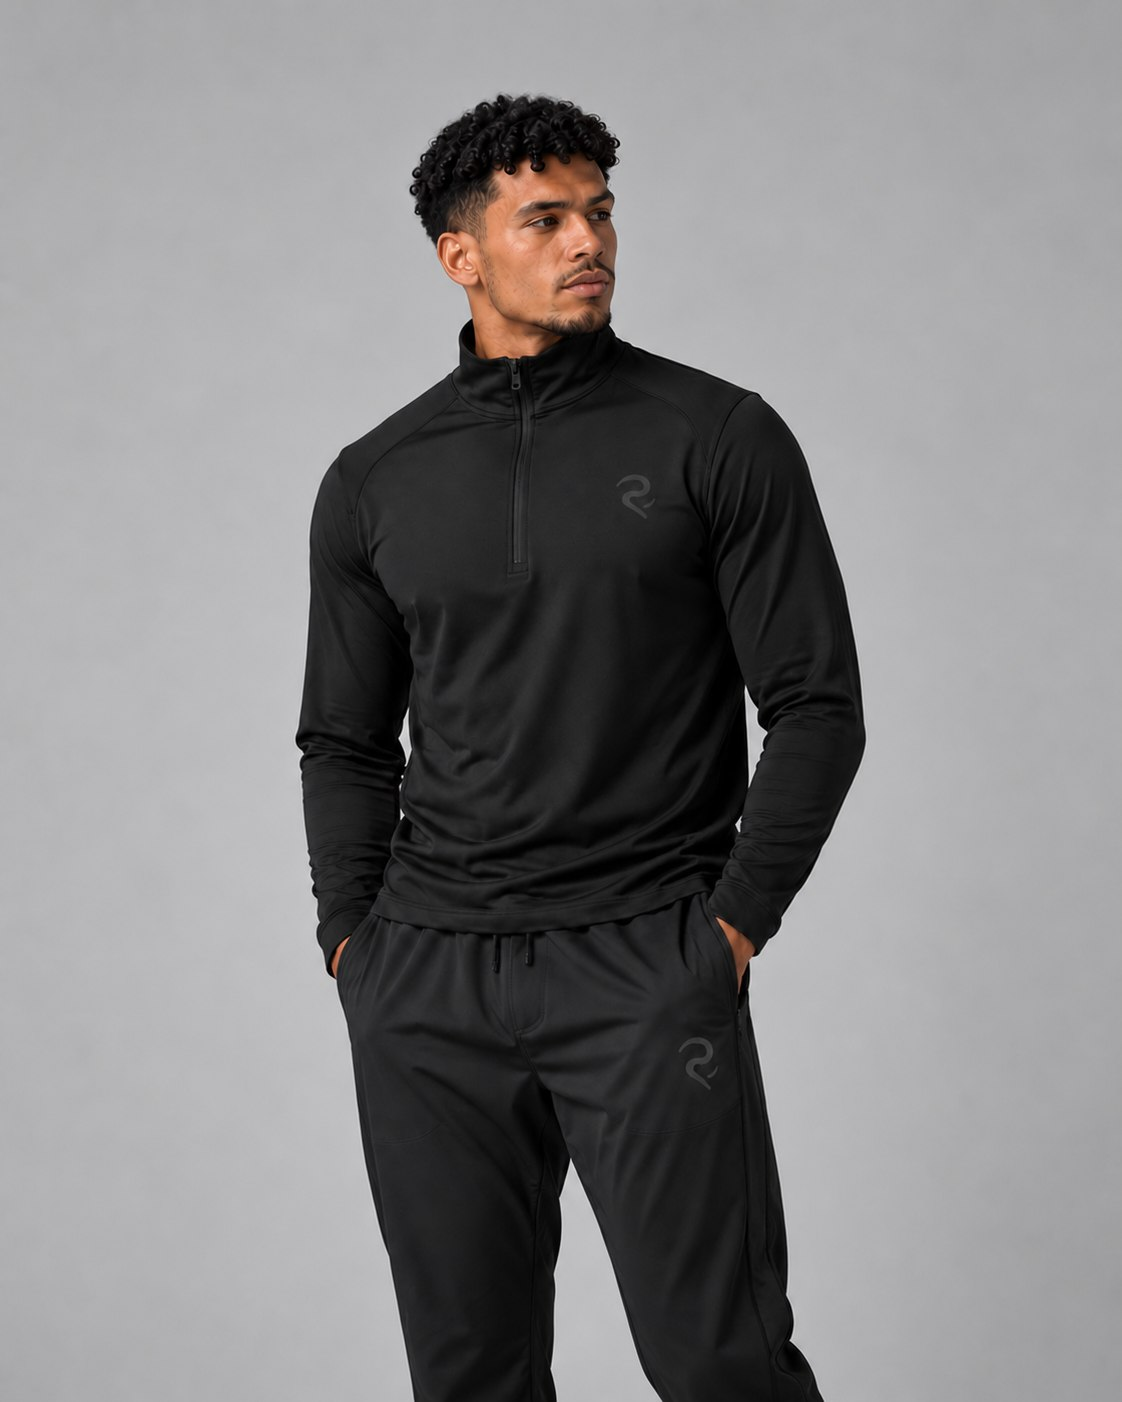
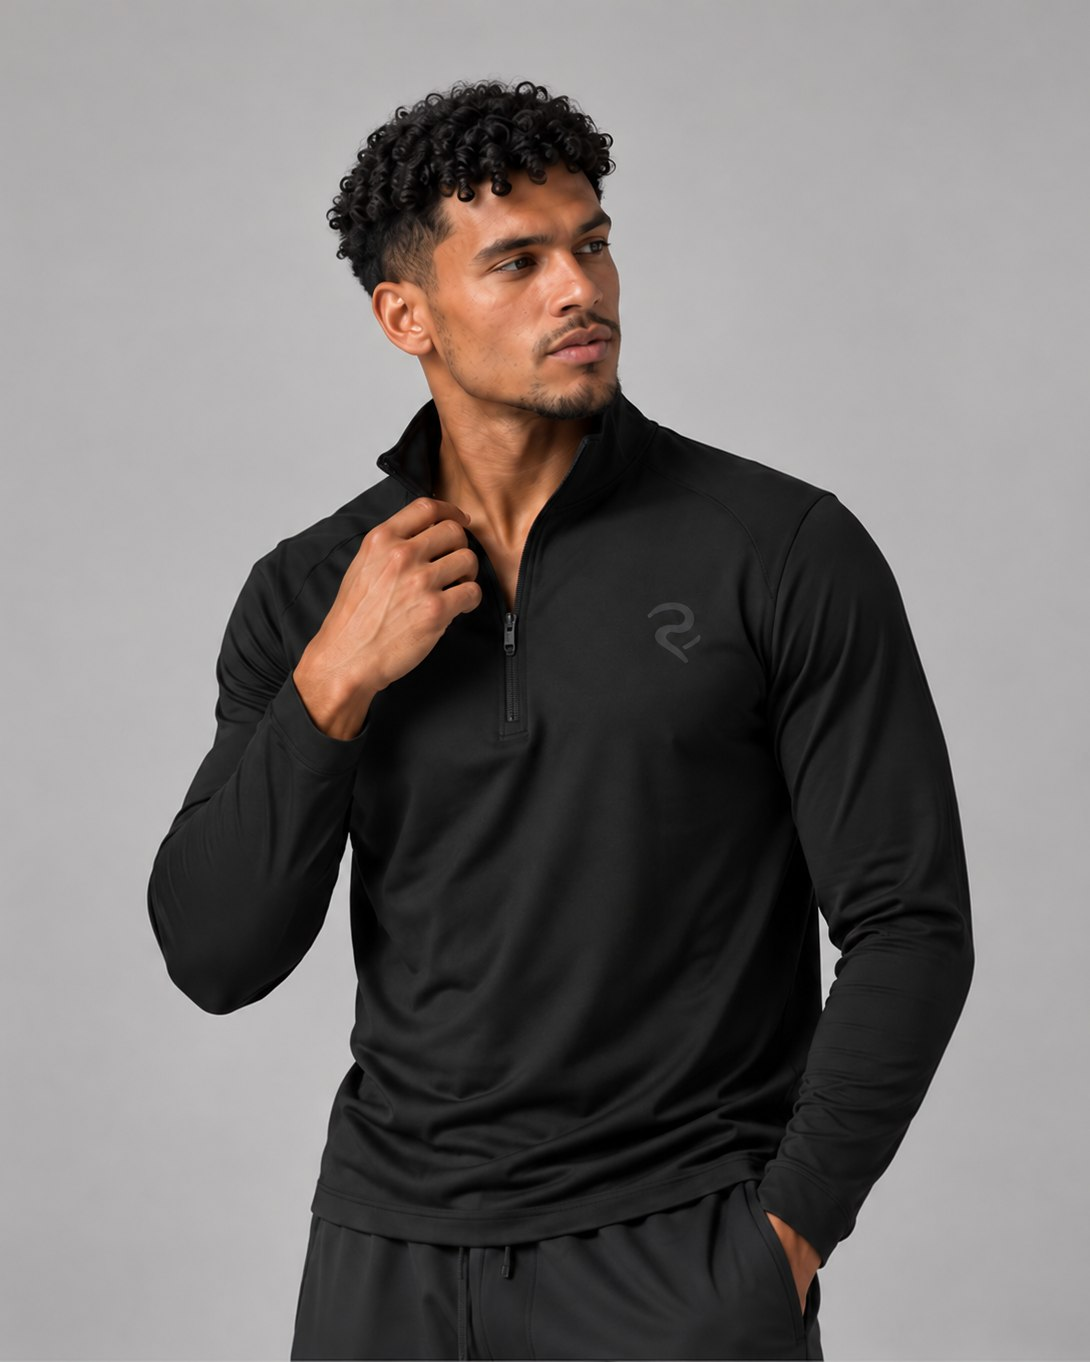
Quarter Zip: swap photos 1 and 2; photo 2 is now the card hover
Photo 1 and 2 swapped — the collar shot leads, the standing front follows.
On the Shop All card the collar shot is the main image and the standing
front is the hover reveal (was the side view).

Renamed rather than swapping file contents, so the filenames stay honest:
the cover is always <product>.jpg, and the standing front gets its own
quarter-zip-m-front.jpg. quarter-zip-m-detail.jpg is removed; nothing else
referenced it. Cards need no src change as a result — they point at
quarter-zip-m.jpg, which is now the collar shot.

  quarter-zip-m.jpg        collar   1090x1362  card main + gallery 1
  quarter-zip-m-front.jpg  front    1122x1402  card hover + gallery 2
  quarter-zip-m-side.jpg   side     1122x1402  gallery 3
  quarter-zip-m-seated.jpg seated   1024x1536  gallery 4

The new cover is cropped 32px off each side, 1155x1362 -> 1090x1362, and
that crop is load-bearing. The PDP frame locks to the FIRST image's ratio,
and the collar shot is natively 0.848 against the other views' 0.8003.
Leading with it uncropped would have widened the frame and cropped 2.98%
off the top and bottom of every other view — and the SIDE VIEW HAS ONLY
0.43% HEADROOM, so it would have clipped his head. Cropping the cover to
0.8003 keeps the frame exactly where it was. Measured after the change:
views 1, 2 and 3 crop nothing, the seated view crops 10% top and bottom
as before (it has 21.2% headroom, 15.4% footroom). If the cover is ever
replaced, match 0.8003 or re-check the side view.
[…]

Changed region(s): [[0.1248, 0.0617, 0.9046, 1.0], [0.4679, 0.7093, 0.4991, 0.7401]]

diff --git a/product.html b/product.html
@@ -319,7 +319,7 @@ const PRODUCTS={
   'jacket-w':{name:"Women's Jacket",gender:"Women's",price:'KES 7,500',priceVal:7500,image:'images/jacket-w.jpg',images:['images/jacket-w.jpg','images/jacket-w-front-angle.jpg','images/jacket-w-back-angle.jpg','images/jacket-w-back.jpg'],sizes:['S','M','L','XL','XXL'],desc:"A versatile training jacket built for warm-ups, cool-downs, and everything in between. Lightweight with a clean zip-front silhouette. Thumb holes, two side pockets, and a slightly relaxed fit.",details:['Full-length zip front','Thumb hole cuffs','Two side zip pockets','Relaxed training fit','Lightweight performance fabric','Fabric: 100% Polyester']},
   'tshirt-w':{name:"Women's T-Shirt",gender:"Women's",price:'KES 4,500',priceVal:4500,image:'images/tshirt-w.jpg',images:['images/tshirt-w.jpg','images/tshirt-w-front-angle.jpg','images/tshirt-w-back.jpg','images/tshirt-w-detail.jpg','images/tshirt-w-movement.jpg'],sizes:['S','M','L','XL','XXL'],desc:"A clean training tee built for movement. Lightweight moisture-wicking fabric, a relaxed fit that stays in place, and a slightly cropped hem. Wear it to the gym, on a run, or straight after.",details:['Moisture-wicking fabric','Relaxed fit with cropped hem','Crew neck','Flatlock shoulder seams','Fabric: 89% Polyester, 11% Elastane']},
   'tshirt-m':{name:"Men's T-Shirt",gender:"Men's",price:'KES 4,500',priceVal:4500,image:'images/tshirt-m.jpg',images:['images/tshirt-m.jpg','images/tshirt-m-side.jpg','images/tshirt-m-back.jpg'],sizes:['S','M','L','XL','XXL'],desc:"A training tee that does its job without getting in the way. Sweat-wicking fabric, a clean regular fit, and a slightly dropped hem. Equally at home in the gym or on the way there.",details:['Moisture-wicking fabric','Regular fit with dropped hem','Crew neck','Flatlock shoulder seams','Fabric: 89% Polyester, 11% Elastane']},
-  'quarter-zip-m':{name:"Men's Quarter Zip",gender:"Men's",price:'KES 5,600',priceVal:5600,image:'images/quarter-zip-m.jpg',images:['images/quarter-zip-m.jpg','images/quarter-zip-m-detail.jpg','images/quarter-zip-m-side.jpg','images/quarter-zip-m-seated.jpg'],sizes:['S','M','L','XL','XXL'],desc:"The warm-up layer you'll reach for every session. Quarter-zip collar, flatlock seams, and a clean minimal aesthetic. Lightweight enough to keep on during training.",details:['Quarter-zip collar','Flatlock seam construction','Regular straight fit','Moisture-wicking fabric','Fabric: 83% Polyester, 17% Elastane']},
+  'quarter-zip-m':{name:"Men's Quarter Zip",gender:"Men's",price:'KES 5,600',priceVal:5600,image:'images/quarter-zip-m.jpg',images:['images/quarter-zip-m.jpg','images/quarter-zip-m-front.jpg','images/quarter-zip-m-side.jpg','images/quarter-zip-m-seated.jpg'],sizes:['S','M','L','XL','XXL'],desc:"The warm-up layer you'll reach for every session. Quarter-zip collar, flatlock seams, and a clean minimal aesthetic. Lightweight enough to keep on during training.",details:['Quarter-zip collar','Flatlock seam construction','Regular straight fit','Moisture-wicking fabric','Fabric: 83% Polyester, 17% Elastane']},
   'shorts-m':{name:"Men's Shorts",gender:"Men's",price:'KES 6,050',priceVal:6050,image:'images/shorts-m.jpg',images:['images/shorts-m.jpg','images/shorts-m-side.jpg','images/shorts-m-back.jpg'],sizes:['S','M','L','XL','XXL'],desc:"Lightweight training shorts with an internal compression liner. Elastic waistband with drawcord. Side slit hem for full range of movement. Rear zip pocket.",details:['Internal compression liner','Elastic waistband with drawcord','Side slit hem','Rear zip pocket','Quick-dry fabric','Fabric: Outer body 95% Polyester, 5% Elastane / Insert 88% Polyester, 12% Elastane / Inner layer 88% Nylon, 12% Spandex']},
   'training-pants-m':{name:"Training Pants",gender:"Men's",price:'KES 6,600',priceVal:6600,image:'images/training-pants-m.jpg',images:['images/training-pants-m.jpg','images/training-pants-m-side.jpg','images/training-pants-m-back.jpg'],sizes:['S','M','L','XL','XXL'],desc:"Full-length training pants built for early mornings and cool weather. Tapered fit, ankle zips for easy on/off, and a secure waistband.",details:['Tapered running fit','Ankle zip cuffs','Elastic waistband with drawcord','Two side pockets','Fabric: Main 75% Polyamide, 25% Spandex / Insert 88% Polyester, 12% Elastane']},
   'ankle-socks':{name:'Ankle Socks',gender:'Unisex',price:'KES 550',priceVal:550,image:'images/ankle-socks.jpg',sizes:['S/M','L/XL'],colour:'White',swatchHex:'#f5f5f5',swatchBorder:'#e5e7eb',desc:"Low-cut ankle socks that stay in place through any session. Silicone heel grip, cushioned toe box, and a breathable cotton-blend knit.",care:false,details:['Ankle-cut low profile','Silicone heel grip','Cushioned toe box','Breathable cotton-blend knit','Fabric: 75% Cotton, 21% Polyamide, 4% Elastane']},

diff --git a/collections.html b/collections.html
@@ -199,7 +199,7 @@
       <div class="prod-card fu d2" data-gender="men">
         <div class="relative" style="aspect-ratio:3/4;overflow:hidden;background:#f3f4f6;">
           <img src="images/quarter-zip-m.jpg" alt="Men's Quarter Zip" style="width:100%;height:100%;object-fit:cover;object-position:center;display:block;">
-          <img src="images/quarter-zip-m-side.jpg" alt="" aria-hidden="true" class="card-hover-img">
+          <img src="images/quarter-zip-m-front.jpg" alt="" aria-hidden="true" class="card-hover-img">
           <button class="add-btn" onclick="addToBag('quarter-zip-m','Men\'s Quarter Zip',5600)">Add to Bag</button>
         </div>
         <div class="p-4">
